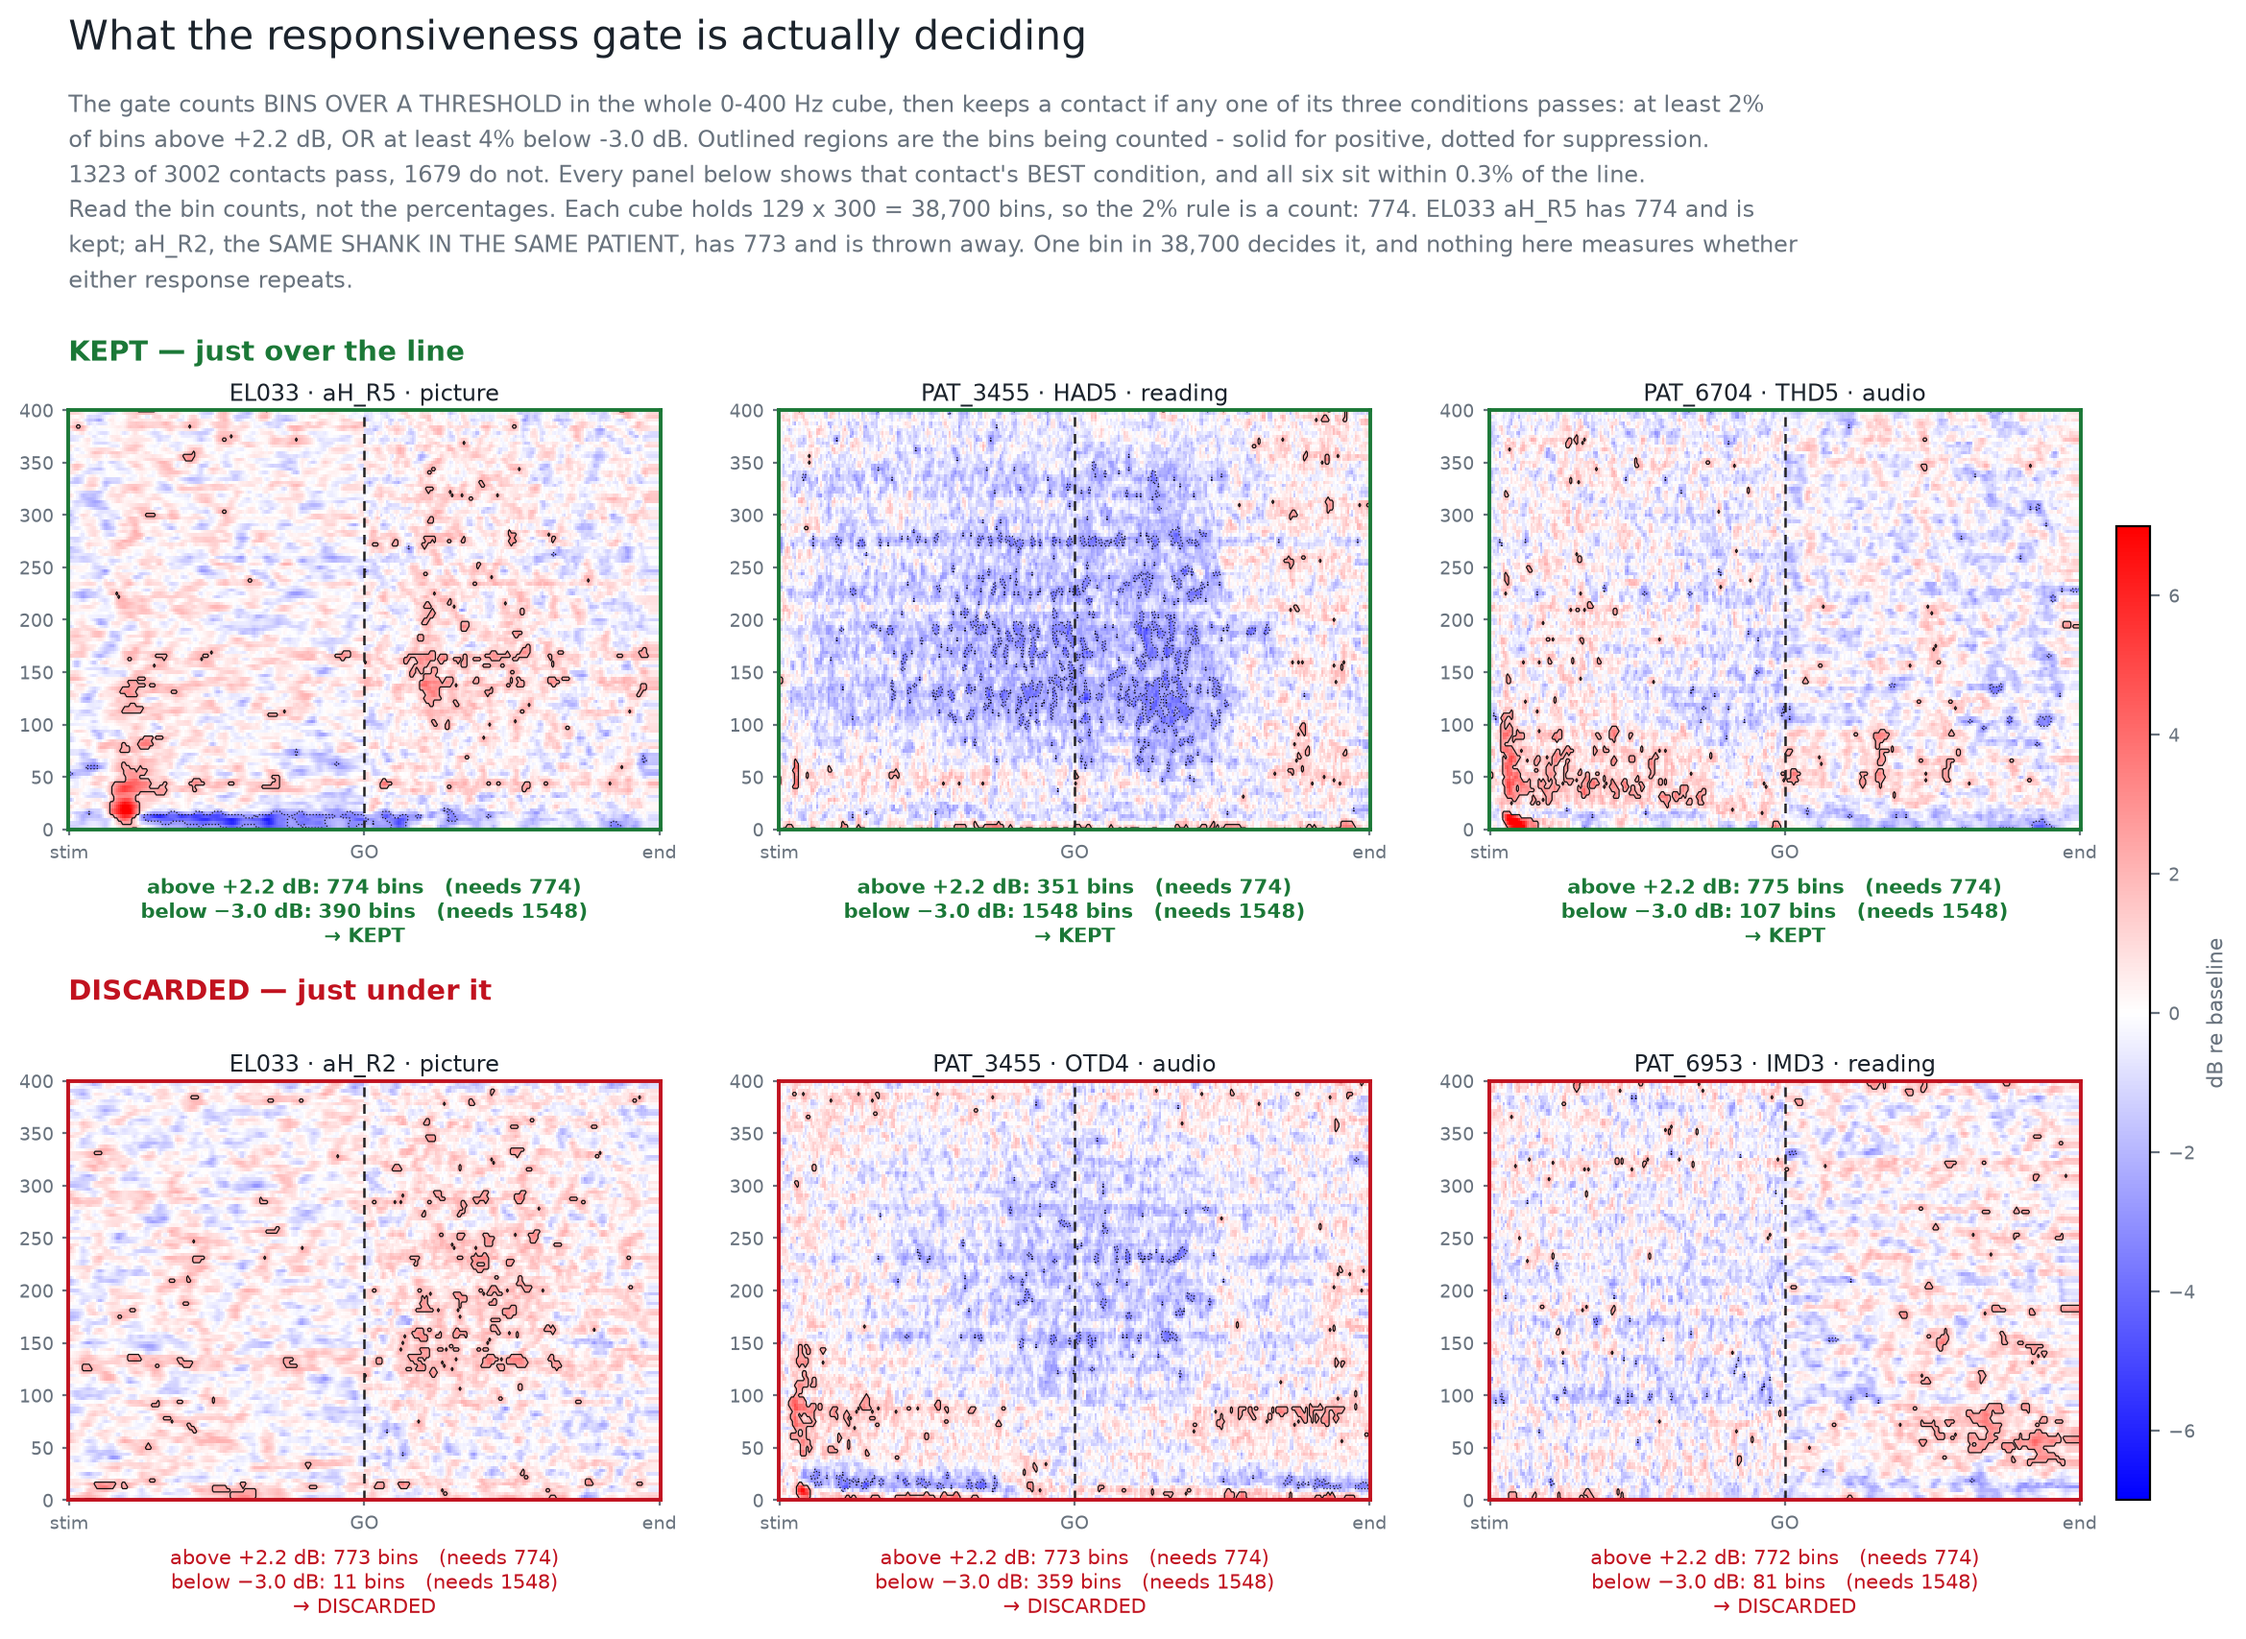
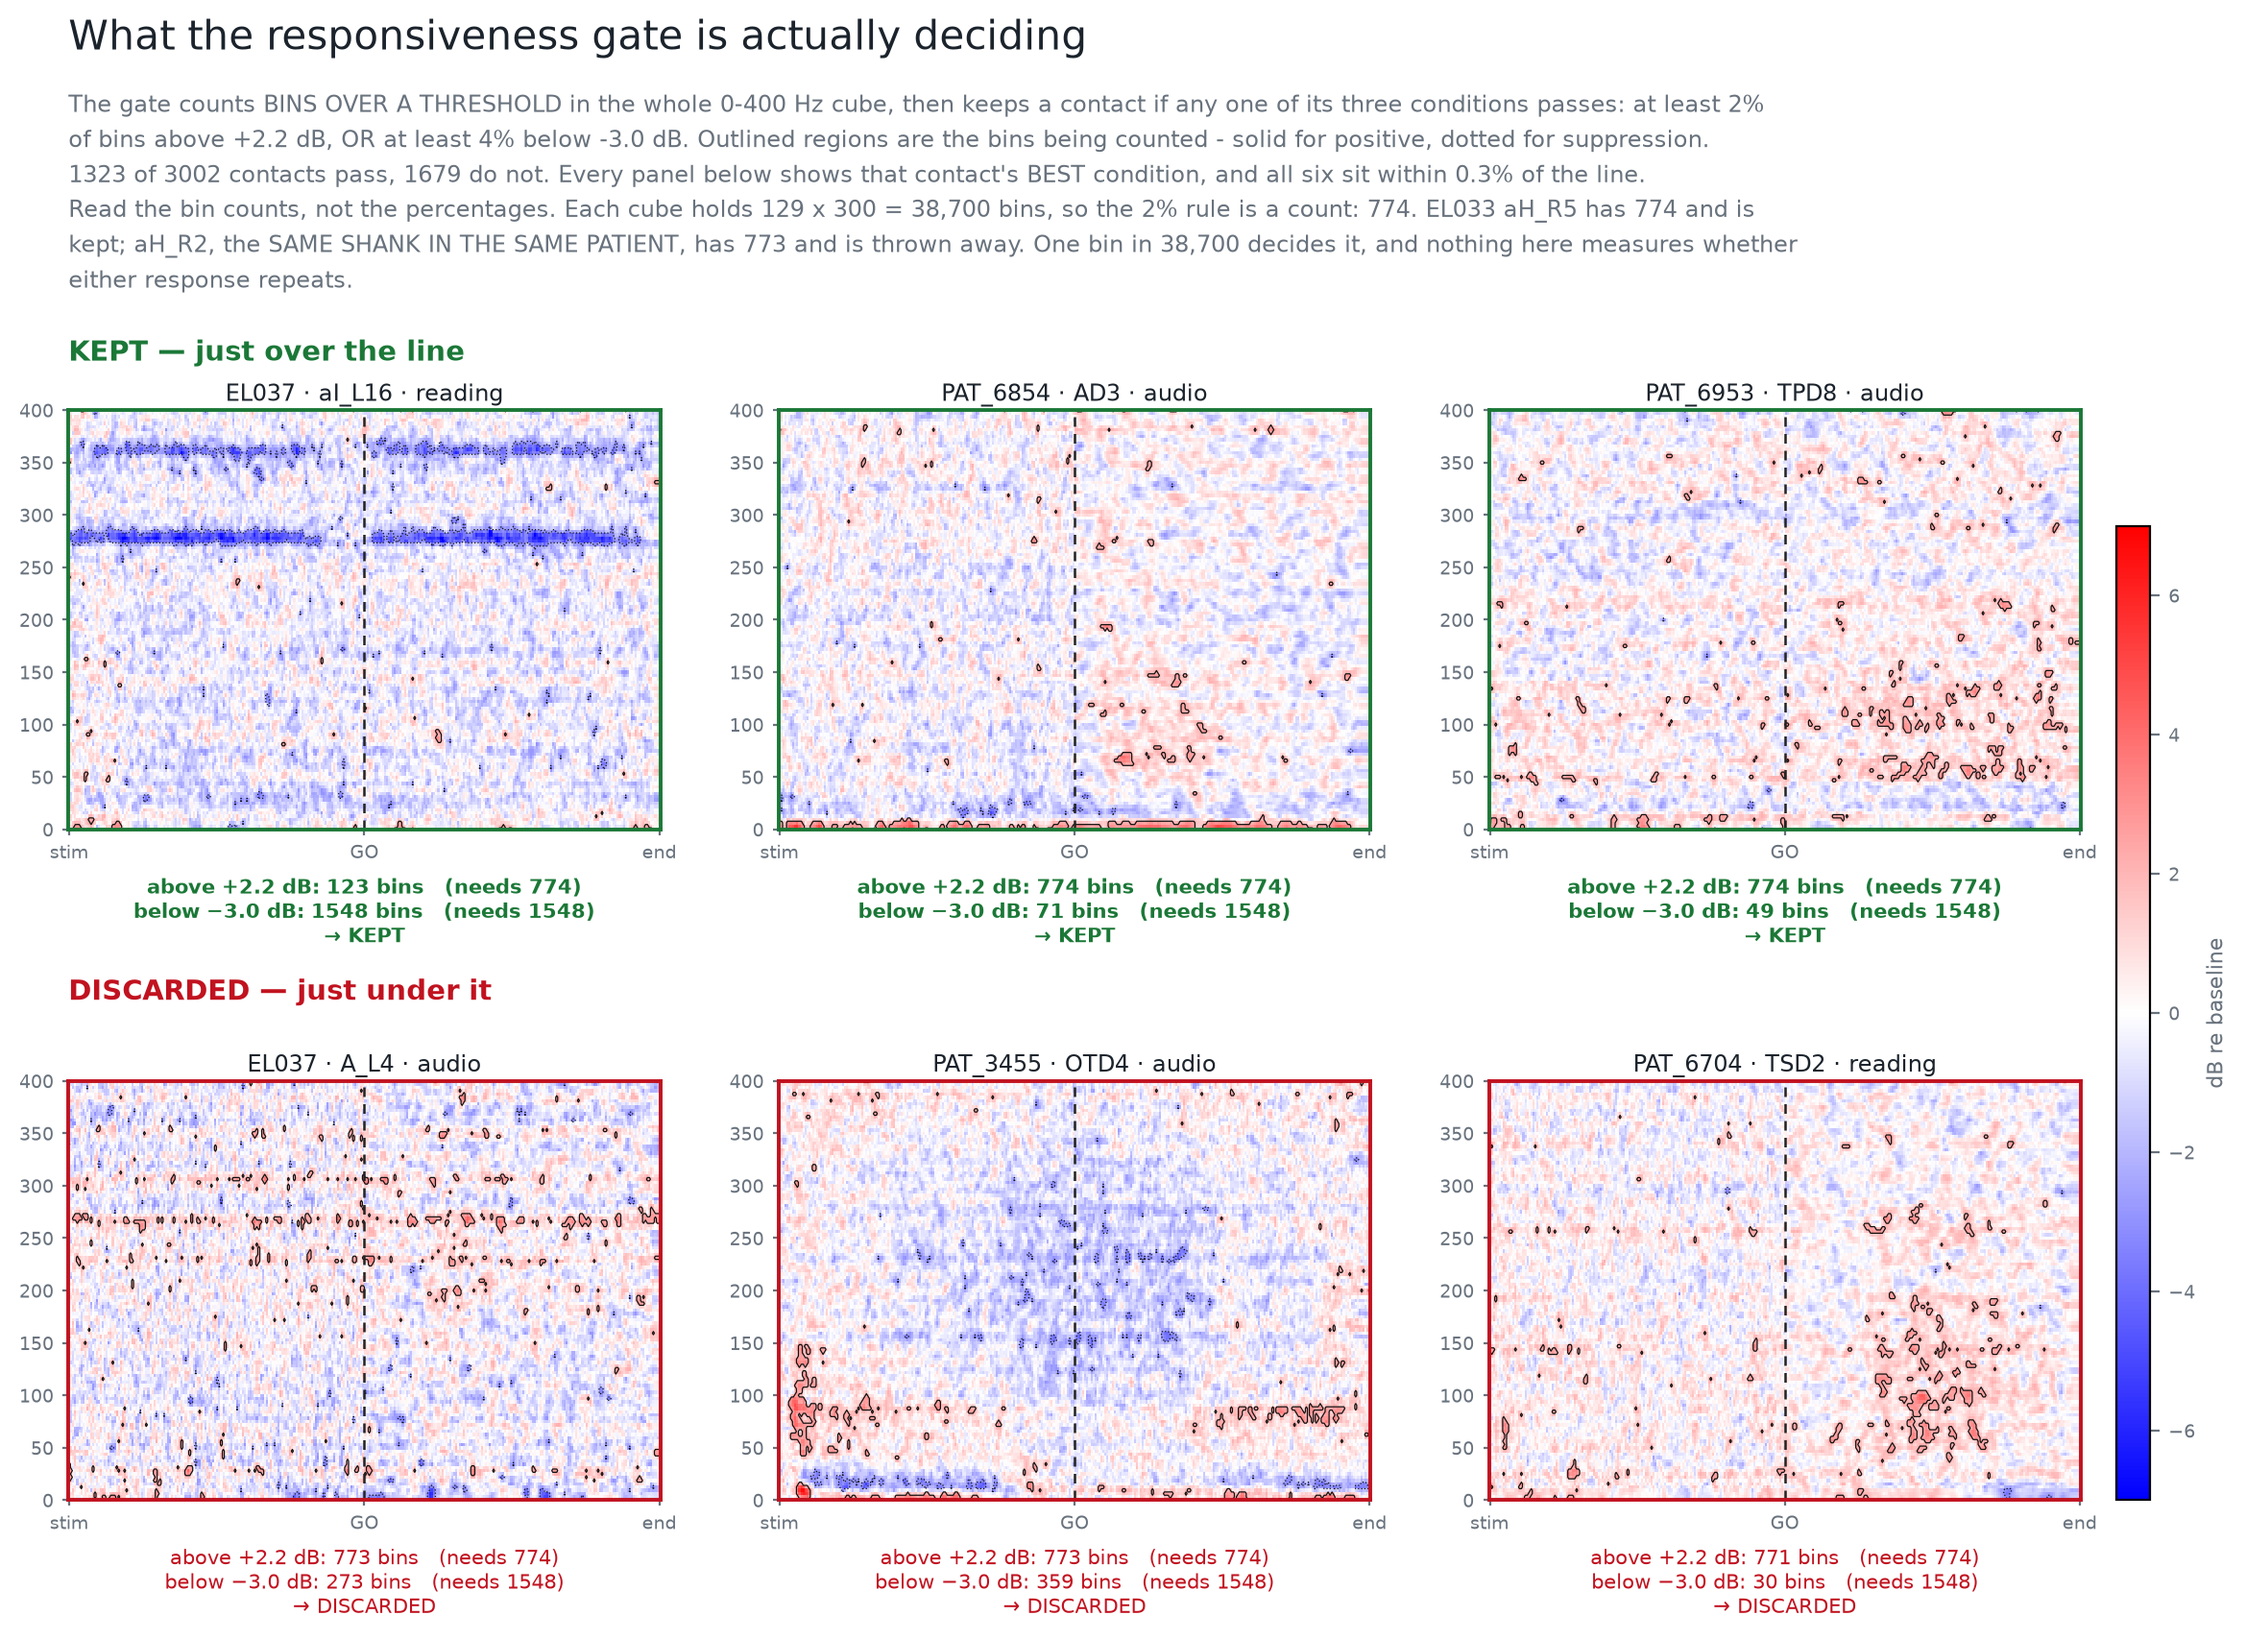
Gate examples on cohort v7
Last drawn 2026-08-25, so the electrodes it showed sitting at the gate's line were chosen
by v4-era gating - and the gate is exactly what moved this week, PAT_6684 going from
62.6% to 90.2% of its contacts passing. Redrawn from the v7 cache.

The docstring no longer quotes a pass/fail count. It said '1323 of 3002', which was true
when written and has been wrong through three cohort rebuilds since; a number frozen in a
docstring is one nobody rechecks. It now points at cohort_v<N>_summary.json, which the
rebuild writes alongside the cache the script reads.

diff --git a/02_FBM_Clustering/make_gate_examples.py b/02_FBM_Clustering/make_gate_examples.py
@@ -10,7 +10,11 @@ THE GATE, exactly as prepare_dataset computes it. For each electrode-condition E
     high_activity  = (prop_above_pos >= 0.02) OR (prop_below_neg >= 0.04)
 
 n_high_activity counts how many of the three conditions pass; the contact is kept if
-at least one does. 1323 of 3002 contacts pass, 1679 do not.
+at least one does. NO COUNT IS QUOTED HERE ON PURPOSE: it changes with every cache
+rebuild - it was 1323 of 3002 when this was written and the cohort has moved three times
+since - and a number frozen in a docstring is one nobody rechecks. The authoritative
+figures are outputs/clustering/cohort_v<N>/cohort_v<N>_summary.json, written by the same
+rebuild that produces the cache this script reads.
 
 TWO THINGS THIS FIGURE IS FOR. First, the criterion counts BINS OVER A THRESHOLD across
 the whole 0-400 Hz cube - it is not a high-gamma measure and it is not a test of whether
